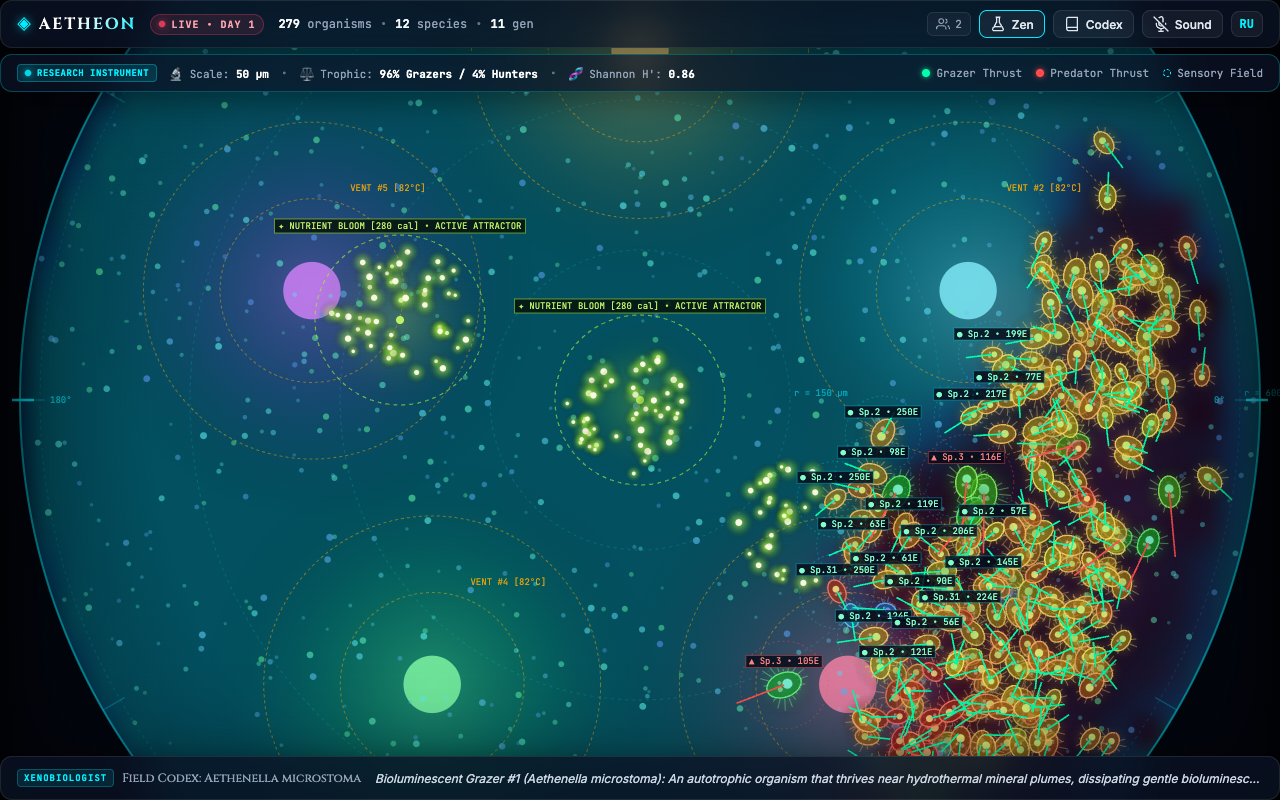
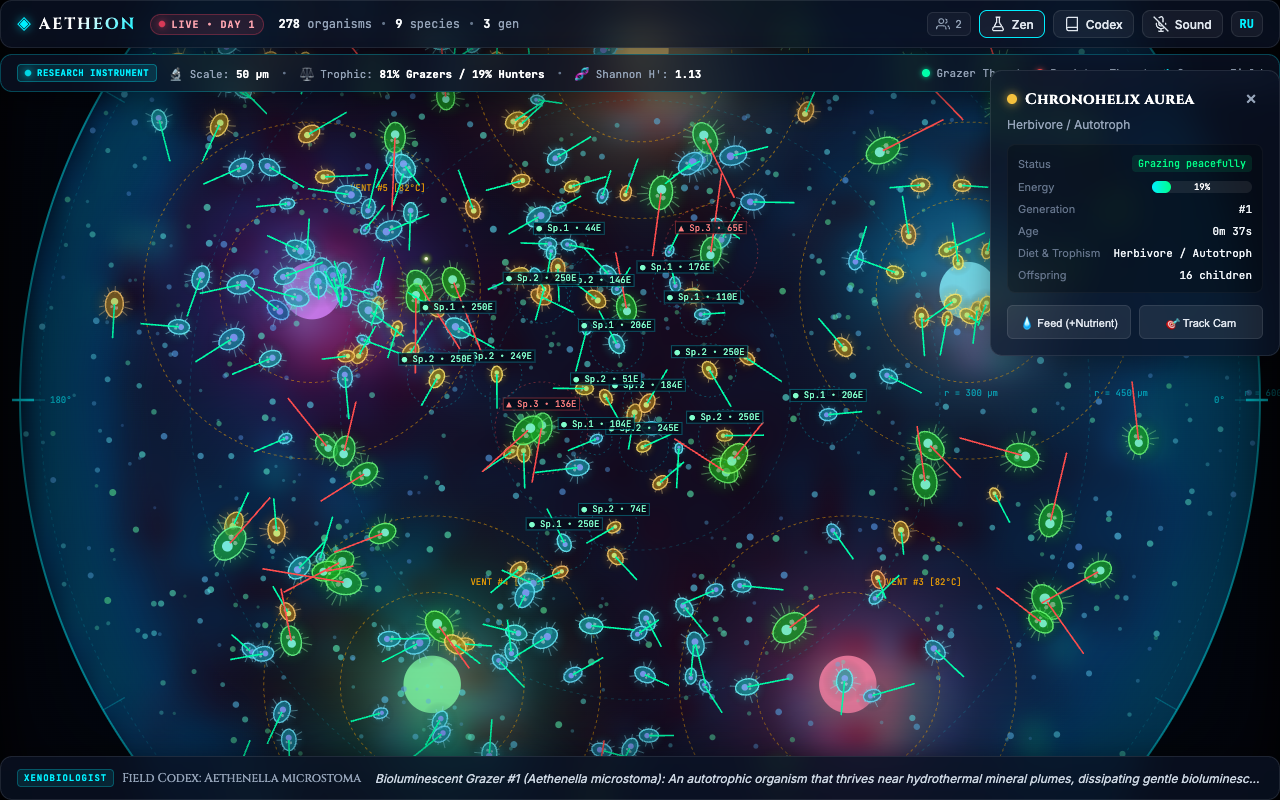
Fix anisotropic chemotaxis drift by implementing symmetric central difference gradient sampling and bilinear excretion

diff --git a/server/core/chemicalGrid.js b/server/core/chemicalGrid.js
@@ -146,8 +146,66 @@ export class ChemicalGrid {
     return { gx, gy, ix: Math.floor(gx), iy: Math.floor(gy) };
   }
 
-  // Bilinear sampling of chemical concentrations at arbitrary continuous world coordinates
+  // Continuous bilinear sampling of a specific chemical channel
+  sampleVal(wx, wy, channel = 'nutrients') {
+    const scale = this.size / CONFIG.WORLD_SIZE;
+    const clampedX = Math.max(0, Math.min(CONFIG.WORLD_SIZE - 0.01, wx));
+    const clampedY = Math.max(0, Math.min(CONFIG.WORLD_SIZE - 0.01, wy));
+    const x = clampedX * scale;
+    const y = clampedY * scale;
+
+    const x0 = Math.floor(x);
+    const y0 = Math.floor(y);
+    const x1 = Math.min(this.size - 1, x0 + 1);
+    const y1 = Math.min(this.size - 1, y0 + 1);
+
+    const fx = x - x0;
+    const fy = y - y0;
+
+    const arr = this[channel];
+    const N = this.size;
+    const v00 = arr[y0 * N + x0];
+    const v10 = arr[y0 * N + x1];
+    const v01 = arr[y1 * N + x0];
+    const v11 = arr[y1 * N + x1];
+
+    return (v00 * (1 - fx) + v10 * fx) * (1 - fy) + (v01 * (1 - fx) + v11 * fx) * fy;
+  }
+
+  // Isotropic bilinear sampling and symmetric central difference gradients
+  // Completely eliminates directional bias and self-induced diagonal drift
   sample(wx, wy) {
+    const nut = this.sampleVal(wx, wy, 'nutrients');
+    const wst = this.sampleVal(wx, wy, 'waste');
+    const sig = this.sampleVal(wx, wy, 'signal');
+
+    // Symmetric central difference with span delta = 16 μm (~1.5 grid cells)
+    const delta = 16.0;
+    const nutX1 = this.sampleVal(wx + delta, wy, 'nutrients');
+    const nutX0 = this.sampleVal(wx - delta, wy, 'nutrients');
+    const nutY1 = this.sampleVal(wx, wy + delta, 'nutrients');
+    const nutY0 = this.sampleVal(wx, wy - delta, 'nutrients');
+
+    const wstX1 = this.sampleVal(wx + delta, wy, 'waste');
+    const wstX0 = this.sampleVal(wx - delta, wy, 'waste');
+    const wstY1 = this.sampleVal(wx, wy + delta, 'waste');
+    const wstY0 = this.sampleVal(wx, wy - delta, 'waste');
+
+    const inv2D = 1.0 / (2.0 * delta);
+
+    return {
+      nutrient: nut,
+      waste: wst,
+      signal: sig,
+      gradNutrientX: (nutX1 - nutX0) * inv2D * 18.0,
+      gradNutrientY: (nutY1 - nutY0) * inv2D * 18.0,
+      gradWasteX: (wstX1 - wstX0) * inv2D * 18.0,
+      gradWasteY: (wstY1 - wstY0) * inv2D * 18.0
+    };
+  }
+
+  // Smooth bilinear consumption of nutrients and excretion of waste + signal
+  consumeAndExcrete(wx, wy, amount, wasteRatio = 0.5, signalAmount = 0.1) {
     const scale = this.size / CONFIG.WORLD_SIZE;
     const clampedX = Math.max(0, Math.min(CONFIG.WORLD_SIZE - 0.01, wx));
     const clampedY = Math.max(0, Math.min(CONFIG.WORLD_SIZE - 0.01, wy));
@@ -168,41 +226,35 @@ export class ChemicalGrid {
     const i01 = y1 * N + x0;
     const i11 = y1 * N + x1;
 
-    // Bilinear interpolation weights
     const w00 = (1 - fx) * (1 - fy);
     const w10 = fx * (1 - fy);
     const w01 = (1 - fx) * fy;
     const w11 = fx * fy;
 
-    return {
-      nutrient: this.nutrients[i00] * w00 + this.nutrients[i10] * w10 + this.nutrients[i01] * w01 + this.nutrients[i11] * w11,
-      waste: this.waste[i00] * w00 + this.waste[i10] * w10 + this.waste[i01] * w01 + this.waste[i11] * w11,
-      signal: this.signal[i00] * w00 + this.signal[i10] * w10 + this.signal[i01] * w01 + this.signal[i11] * w11,
-      // Gradient vector of nutrients (for chemotaxis steering)
-      gradNutrientX: (this.nutrients[i10] - this.nutrients[i00]),
-      gradNutrientY: (this.nutrients[i01] - this.nutrients[i00]),
-      gradWasteX: (this.waste[i10] - this.waste[i00]),
-      gradWasteY: (this.waste[i01] - this.waste[i00])
-    };
-  }
+    const avail = this.nutrients[i00] * w00 + this.nutrients[i10] * w10 + this.nutrients[i01] * w01 + this.nutrients[i11] * w11;
+    const consumed = Math.min(avail, amount);
 
-  // Consume nutrients at a continuous world point and excrete waste + signal
-  consumeAndExcrete(wx, wy, amount, wasteRatio = 0.5, signalAmount = 0.1) {
-    const { ix, iy } = this.worldToGrid(wx, wy);
-    const idx = iy * this.size + ix;
-    
-    const available = this.nutrients[idx];
-    const consumed = Math.min(available, amount);
-    this.nutrients[idx] -= consumed;
-    
-    // Excrete waste (byproduct of metabolism)
-    this.waste[idx] = Math.min(2.0, this.waste[idx] + consumed * wasteRatio);
-    
-    // Emit luminescence/signal trail
-    if (signalAmount > 0) {
-      this.signal[idx] = Math.min(2.0, this.signal[idx] + signalAmount);
+    if (consumed > 0 && avail > 0) {
+      const frac = consumed / avail;
+      this.nutrients[i00] = Math.max(0, this.nutrients[i00] - this.nutrients[i00] * w00 * frac);
+      this.nutrients[i10] = Math.max(0, this.nutrients[i10] - this.nutrients[i10] * w10 * frac);
+      this.nutrients[i01] = Math.max(0, this.nutrients[i01] - this.nutrients[i01] * w01 * frac);
+      this.nutrients[i11] = Math.max(0, this.nutrients[i11] - this.nutrients[i11] * w11 * frac);
+
+      const wasteTotal = consumed * wasteRatio;
+      this.waste[i00] = Math.min(2.0, this.waste[i00] + wasteTotal * w00);
+      this.waste[i10] = Math.min(2.0, this.waste[i10] + wasteTotal * w10);
+      this.waste[i01] = Math.min(2.0, this.waste[i01] + wasteTotal * w01);
+      this.waste[i11] = Math.min(2.0, this.waste[i11] + wasteTotal * w11);
+
+      if (signalAmount > 0) {
+        this.signal[i00] = Math.min(2.0, this.signal[i00] + signalAmount * w00);
+        this.signal[i10] = Math.min(2.0, this.signal[i10] + signalAmount * w10);
+        this.signal[i01] = Math.min(2.0, this.signal[i01] + signalAmount * w01);
+        this.signal[i11] = Math.min(2.0, this.signal[i11] + signalAmount * w11);
+      }
     }
-    
+
     return consumed;
   }
 

diff --git a/server/core/organism.js b/server/core/organism.js
@@ -159,12 +159,12 @@ export class Organism {
         const d2 = dx * dx + dy * dy;
         const d = Math.sqrt(d2) || 0.01;
 
-        // A. Elastic volume exclusion (prevent awkward overlapping clumps)
-        const minDist = (this.size + other.size) * 1.1;
+        // A. Elastic volume exclusion (prevent awkward overlapping clumps & clumping)
+        const minDist = (this.size + other.size) * 1.35;
         if (d < minDist) {
           const push = (minDist - d) / minDist;
-          separationX -= (dx / d) * push * 2.0;
-          separationY -= (dy / d) * push * 2.0;
+          separationX -= (dx / d) * push * 2.8;
+          separationY -= (dy / d) * push * 2.8;
         }
 
         // B. Identify single nearest threat / prey to avoid force cancellation
@@ -229,7 +229,8 @@ export class Organism {
       let angleDiff = targetHeading - this.heading;
       while (angleDiff < -Math.PI) angleDiff += Math.PI * 2;
       while (angleDiff > Math.PI) angleDiff -= Math.PI * 2;
-      this.heading += Math.max(-0.25, Math.min(0.25, angleDiff * 0.2));
+      const maxTurn = (distCenter > R - margin) ? 0.45 : 0.28;
+      this.heading += Math.max(-maxTurn, Math.min(maxTurn, angleDiff * 0.25));
     } else {
       // Gentle forward wander
       this.heading += (Math.random() - 0.5) * 0.08;
